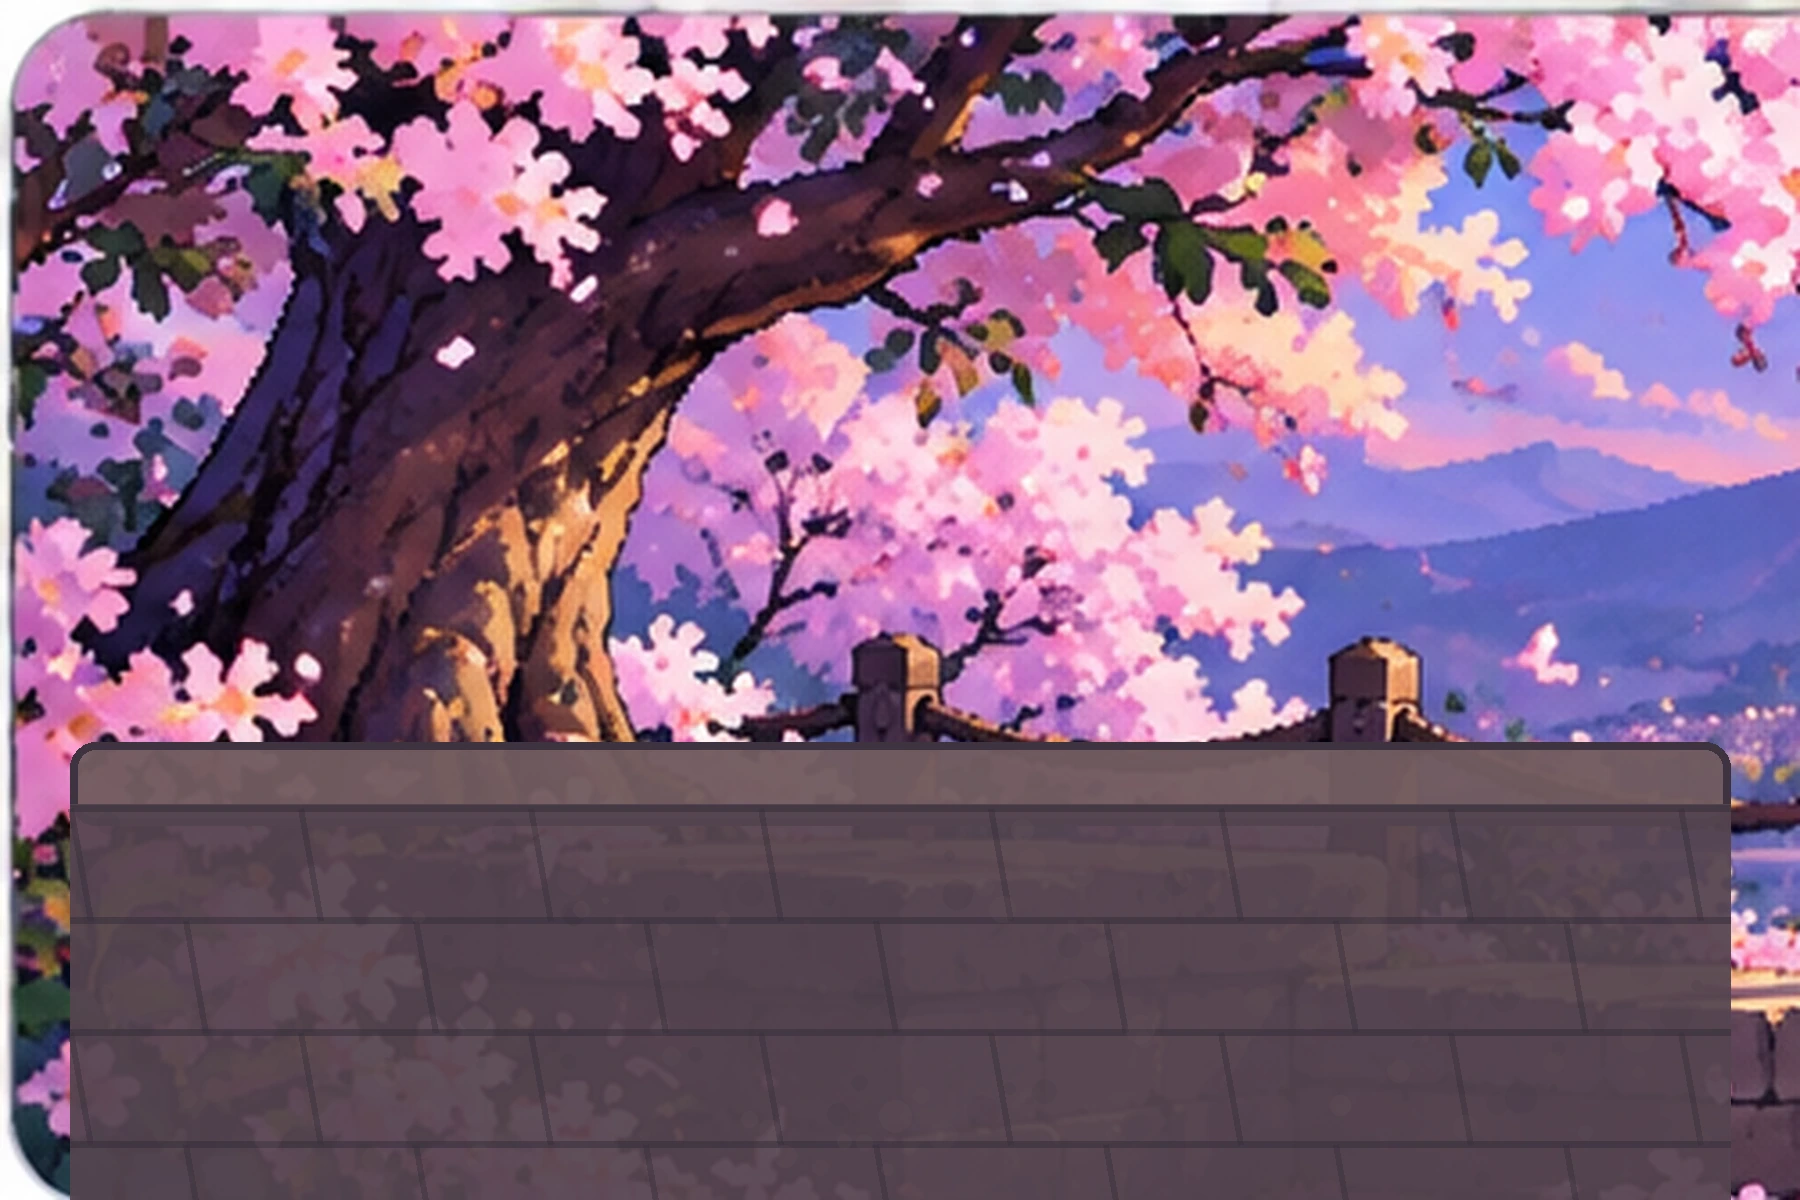
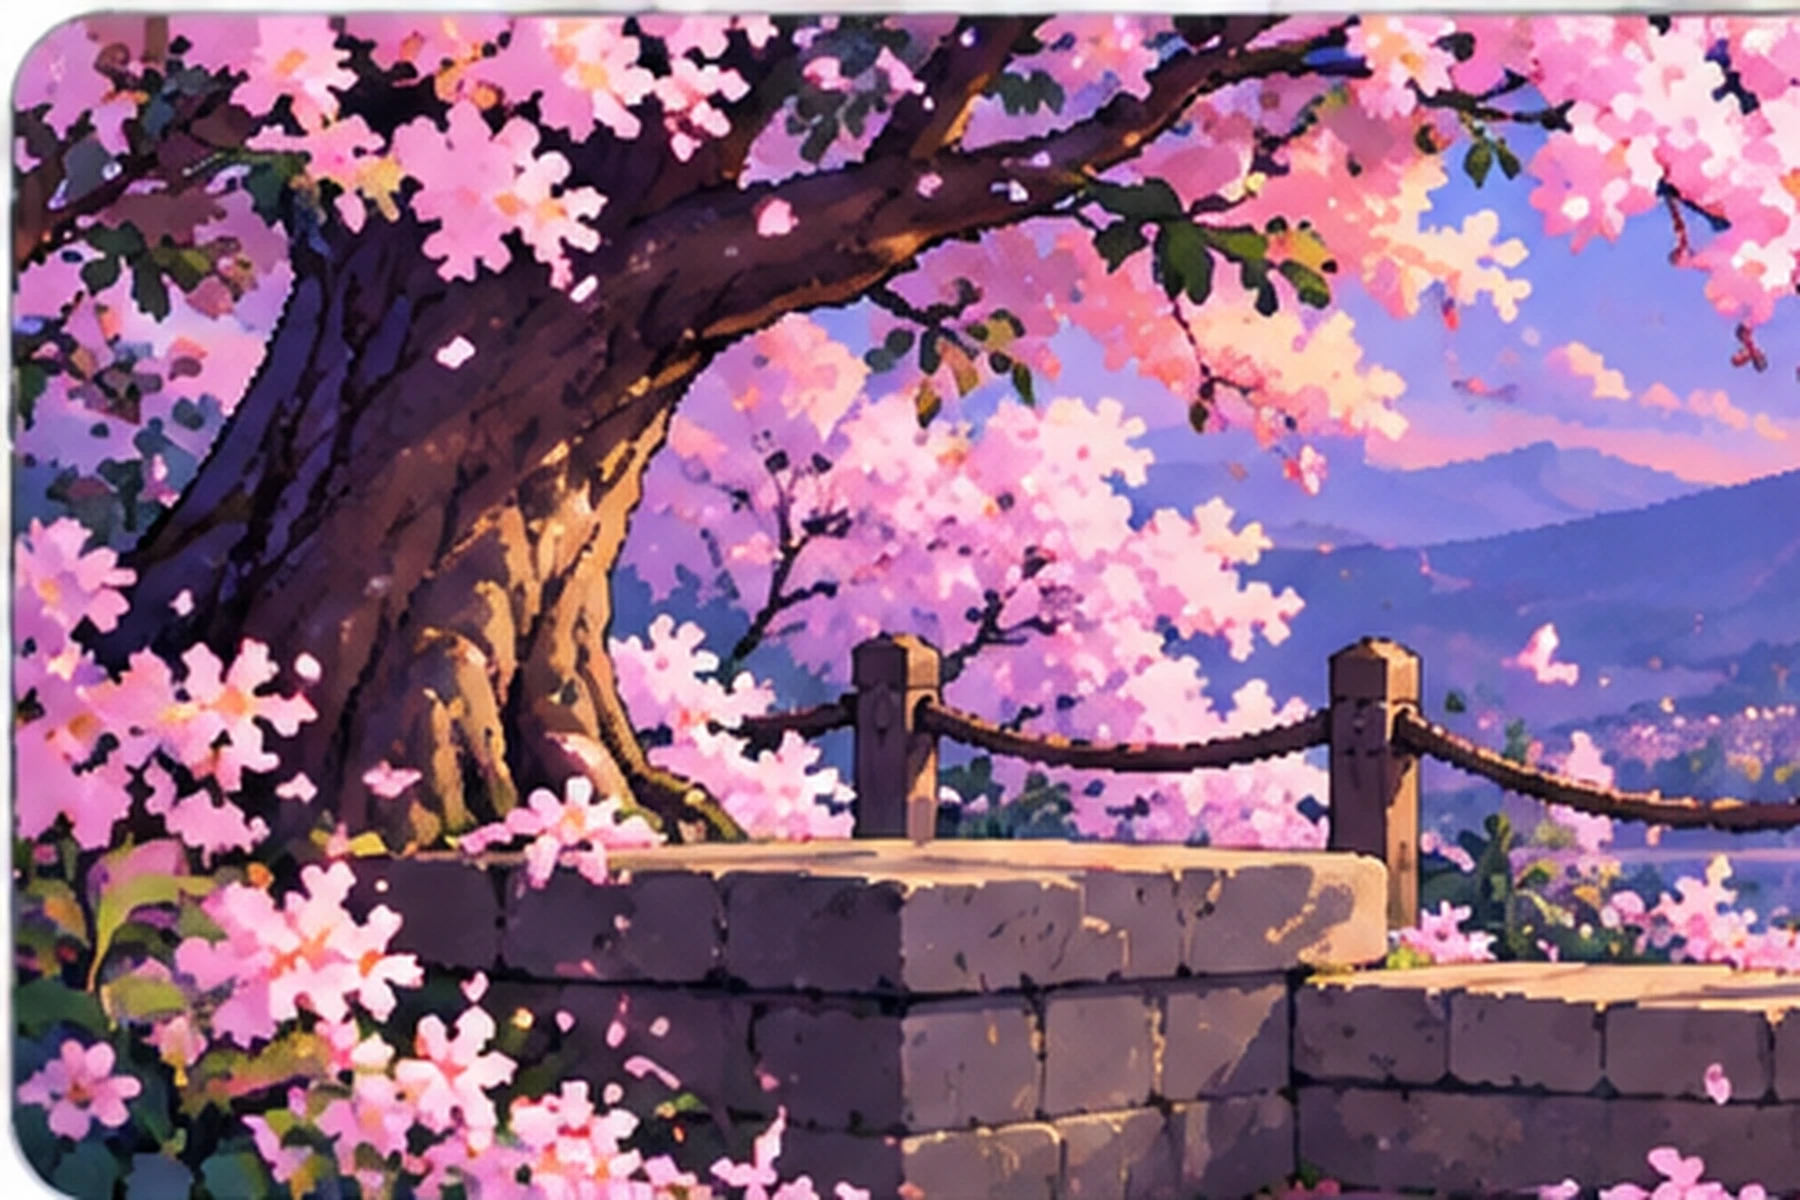
Add files via upload

Changed region(s): [[0.0311, 0.6167, 0.9644, 1.0]]

diff --git a/index.html b/index.html
@@ -3943,6 +3943,14 @@ body[data-theme="umbreon"] .trainerStyleRow .stylePill.active{background:#342e58
 .trainerPartnerSlot{position:absolute;z-index:2;left:62%;top:38%;width:30%;height:48%;pointer-events:none}
 .trainerArt:after{z-index:5}
 </style>
+<style id="v0182g-seat-anchor">
+/* Canonical Trainer Scene geometry: natural ledges in every authored background meet this line. */
+.trainerArt{--db-seat-x:30%;--db-seat-y:61.3%;--db-partner-x:70%;--db-partner-y:61.3%;background-position:center!important}
+/* SVG hip point is ~77.5% down its viewBox. This sizing/position maps that point to the locked seat anchor. */
+.trainerRigSvg{width:44%;height:auto;left:8%;top:10.1%;bottom:auto;transform:none;z-index:2;overflow:visible}
+.trainerSceneForeground{display:none!important}
+.trainerPartnerSlot{position:absolute;left:60%;top:31%;width:34%;height:42%;z-index:2;pointer-events:none}
+</style>
 </head>
 <body>
 <div class="themeAtmosphere" aria-hidden="true">
@@ -4019,7 +4027,7 @@ body[data-theme="umbreon"] .trainerScenePicker{background:rgba(29,35,49,.76);bor
 body[data-theme="umbreon"] .trainerScenePickerHead b,body[data-theme="umbreon"] .trainerSceneChoice{color:#f5f6fb}
 @media(max-width:430px){.trainerScene{grid-template-columns:minmax(0,1.38fr) minmax(105px,.72fr)}.trainerArt{min-height:178px}.trainerCardName{font-size:1.08rem}.trainerStatBox{padding:8px}.trainerStatBox b{font-size:.82rem}}
 </style>
-<button class="profileHeaderBtn" id="profileHeaderBtn" type="button" onclick="openProfiles()">👤 My Profile</button><div class="version" id="buildVersion">v0.18.2f</div>
+<button class="profileHeaderBtn" id="profileHeaderBtn" type="button" onclick="openProfiles()">👤 My Profile</button><div class="version" id="buildVersion">v0.18.2g</div>
 </div>
 
   <section id="homeScreen">
@@ -5198,7 +5206,7 @@ body[data-theme="umbreon"] .trainerScenePickerHead b,body[data-theme="umbreon"] 
   </g>
 </svg>
 <div class="trainerPartnerSlot" aria-hidden="true"></div>
-<img class="trainerSceneForeground" alt="" aria-hidden="true">
+
 </div></div><div class="trainerStats"><div class="trainerStatBox"><small>MASTER COLLECTION</small><b id="trainerMasterPct">0%</b><div class="trainerProgress"><i id="trainerMasterBar" style="width:0%"></i></div></div><div class="trainerStatBox"><small>CARDS OWNED</small><b id="trainerPhysicalCards">0</b></div><div class="trainerStatBox"><small>MASTERED SETS</small><b id="trainerMasteredSets">0</b></div></div></div><div class="trainerScenePicker"><div class="trainerScenePickerHead"><b>SCENE</b><span>Saved to this profile</span></div><div class="trainerSceneChoices"><button class="trainerSceneChoice" type="button" data-trainer-scene="sunset-lake"><img src="./trainer-bg-sunset-lake.webp" alt="">Sunset Lake</button><button class="trainerSceneChoice" type="button" data-trainer-scene="cozy-town"><img src="./trainer-bg-cozy-town.webp" alt="">Cozy Town</button><button class="trainerSceneChoice" type="button" data-trainer-scene="forest-trail"><img src="./trainer-bg-forest-trail.webp" alt="">Forest Trail</button></div></div>
     <div class="trainerQuickBuilder">
  <div class="trainerScenePickerHead"><b>TRAINER</b><span>Seated rig · saved to this profile</span></div>
@@ -11368,7 +11376,7 @@ function renderTrainerScenePrefs(){
  const pref=trainerPrefsForCurrent(),scene=TRAINER_SCENES[pref.scene]?pref.scene:'sunset-lake';
  art.style.setProperty('--trainer-bg',`url("${TRAINER_SCENES[scene]}")`);
  art.setAttribute('aria-label',`${scene.replaceAll('-',' ')} trainer background preview`);
- const fg=$('.trainerSceneForeground');if(fg)fg.src=`./trainer-fg-${scene}.webp`;art.dataset.scene=scene;
+ art.dataset.scene=scene;
  $$('[data-trainer-scene]').forEach(b=>b.classList.toggle('active',b.dataset.trainerScene===scene));
 }
 function applyTrainerAppearance(){

diff --git a/sw.js b/sw.js
@@ -1,4 +1,4 @@
-const CACHE='dexbinder-shell-v0182f';
+const CACHE='dexbinder-shell-v0182g';
 const APP_SHELL=[
   './',
   './index.html',
@@ -13,9 +13,6 @@ const APP_SHELL=[
   './trainer-bg-sunset-lake.webp',
   './trainer-bg-cozy-town.webp',
   './trainer-bg-forest-trail.webp',
-  './trainer-fg-sunset-lake.webp',
-  './trainer-fg-cozy-town.webp',
-  './trainer-fg-forest-trail.webp',
 ];
 
 self.addEventListener('install',event=>{
